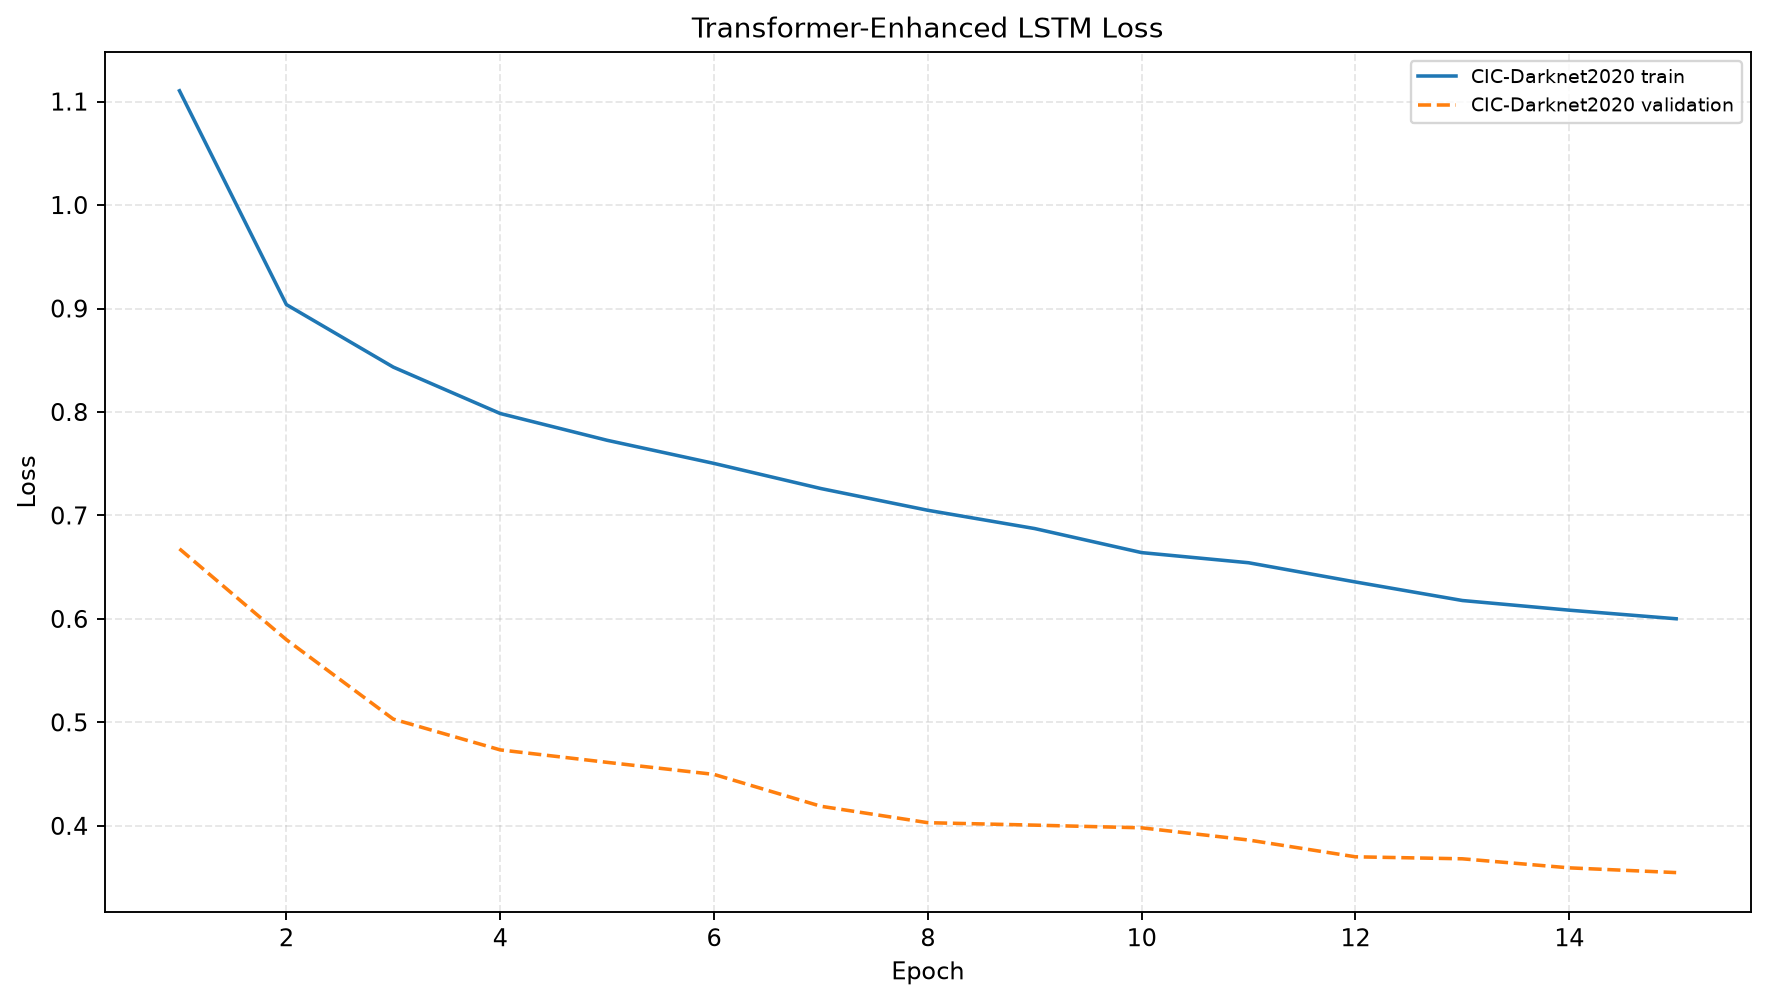
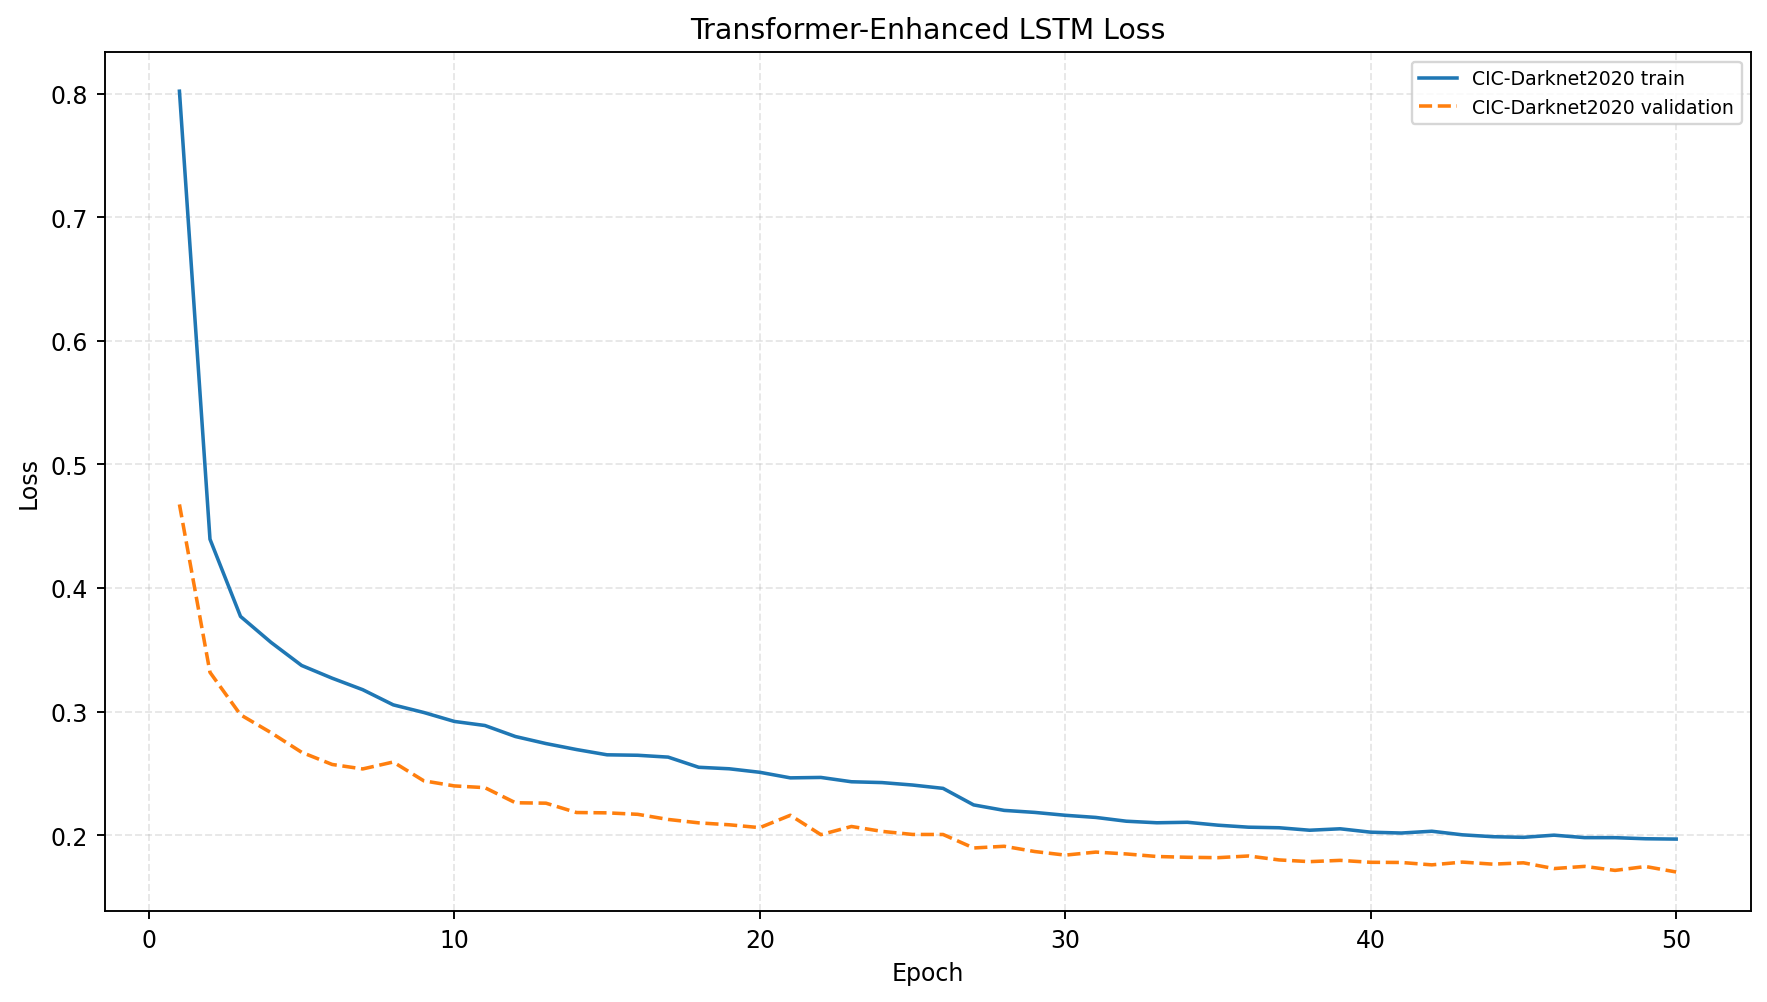
Updated project files

diff --git a/README.md b/README.md
@@ -2,17 +2,11 @@
 
 ## Project Description
 
-<<<<<<< HEAD
-This project implements and evaluates one proposed deep learning model: a Transformer-Enhanced LSTM for network traffic classification. The model is trained on CIC-Darknet2020 and UNSW-NB15 using a leakage-safe preprocessing pipeline, validation-based training control, class-imbalance handling, and reproducible TensorFlow/Keras training.
-
-Published baseline results from the related research paper are used only for discussion and comparison in the paper. Baseline models are not trained inside this project.
-=======
 This project implements a Transformer-Enhanced LSTM model for network traffic classification. The model is designed to classify different types of network traffic by learning both sequence-based patterns and important relationships between traffic features.
 
 The project uses two public datasets: CIC-Darknet2020 and UNSW-NB15. CIC-Darknet2020 focuses on darknet, Tor, VPN, and non-VPN traffic, while UNSW-NB15 focuses on normal and attack-based network traffic. Using both datasets helps evaluate the model on different network traffic scenarios.
 
 Published baseline results from the related research paper are used only for discussion and comparison. Baseline models are not trained inside this project.
->>>>>>> e38505b (Update project with latest changes)
 
 ## Dataset Links
 
@@ -21,11 +15,8 @@ Published baseline results from the related research paper are used only for dis
 
 ## Installation Steps
 
-<<<<<<< HEAD
-=======
 Install the required libraries:
 
->>>>>>> e38505b (Update project with latest changes)
 ```bash
 pip install -r requirements.txt
 ```
@@ -35,41 +26,21 @@ pip install -r requirements.txt
 Run CIC-Darknet2020:
 
 ```bash
-<<<<<<< HEAD
-python src/train.py --dataset cic
-=======
 python src/train.py --dataset cic --epochs 50 --batch-size 128
->>>>>>> e38505b (Update project with latest changes)
 ```
 
 Run UNSW-NB15:
 
 ```bash
-<<<<<<< HEAD
-python src/train.py --dataset unsw
-=======
 python src/train.py --dataset unsw --epochs 50 --batch-size 128
->>>>>>> e38505b (Update project with latest changes)
 ```
 
 Run both datasets:
 
 ```bash
-<<<<<<< HEAD
-python src/train.py --all-datasets
-```
-
-Optional overrides:
-
-```bash
-python src/train.py --dataset cic --epochs 100 --batch-size 256
-```
-
-=======
 python src/train.py --all-datasets --epochs 50 --batch-size 128
 ```
 
->>>>>>> e38505b (Update project with latest changes)
 Run from notebook:
 
 ```bash
@@ -77,17 +48,6 @@ jupyter notebook notebooks/experiment.ipynb
 ```
 OR
 
-<<<<<<< HEAD
-## Model Details
-
-The proposed Transformer-Enhanced LSTM uses grouped multivariate feature timesteps, multi-scale convolutional mixing, stacked bidirectional LSTM encoders, a three-block Transformer encoder, squeeze-and-excitation channel attention, dual pooling, mixup augmentation, RobustScaler preprocessing, minority oversampling, correlation/variance feature filtering, AdamW optimization, cosine warmup scheduling, and dataset-aware class weighting.
-
-## Results Summary
-
-The model is evaluated using accuracy, weighted precision, weighted recall, weighted F1-score, macro precision, macro recall, macro F1-score, AUC where applicable, classification report, and confusion matrix. Metrics are saved in the `results/` folder, while accuracy and loss curves are saved in the `figures/` folder.
-
-The generated results should be used as the final experimental results. No metrics are hard-coded or manually modified.
-=======
 by uploading it on Googe Colab Notebook.
 
 ## Model Details
@@ -101,7 +61,6 @@ The LSTM part helps the model learn sequential traffic patterns, while the Trans
 The model is evaluated using accuracy, precision, recall, F1-score, AUC, classification report, and confusion matrix. The results show that the proposed Transformer-Enhanced LSTM performs well on network traffic classification and is able to separate different traffic classes effectively.
 
 Metrics are saved in the `results/` folder, while accuracy and loss curves are saved in the `figures/` folder. These generated outputs should be used as the final experimental results.
->>>>>>> e38505b (Update project with latest changes)
 
 ## Team Members
 